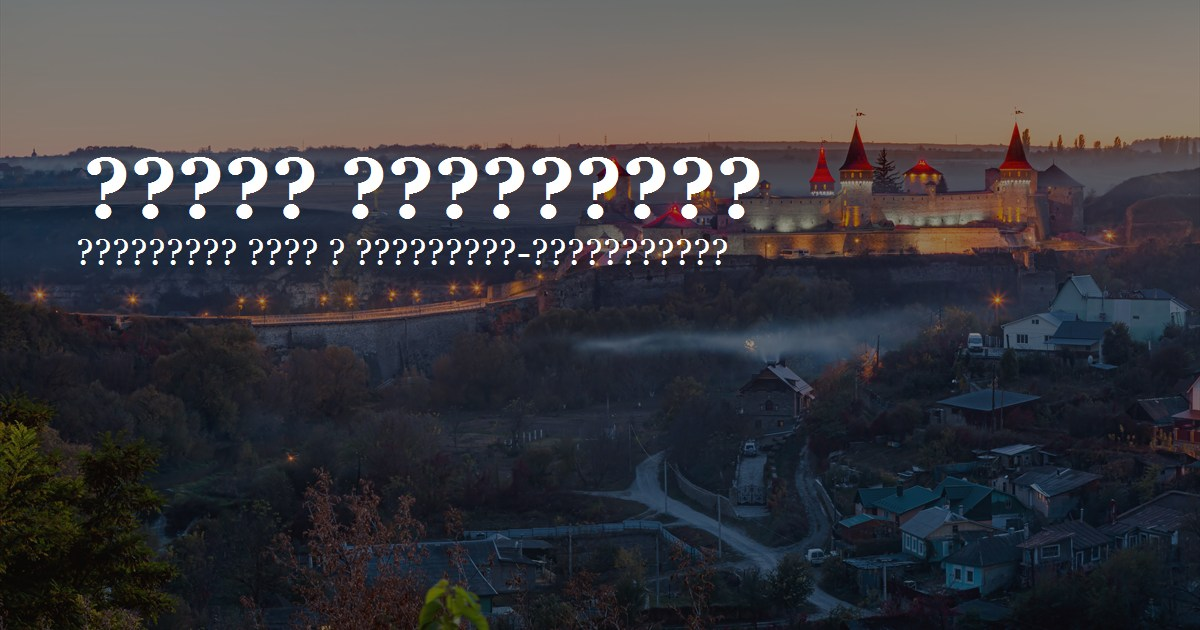
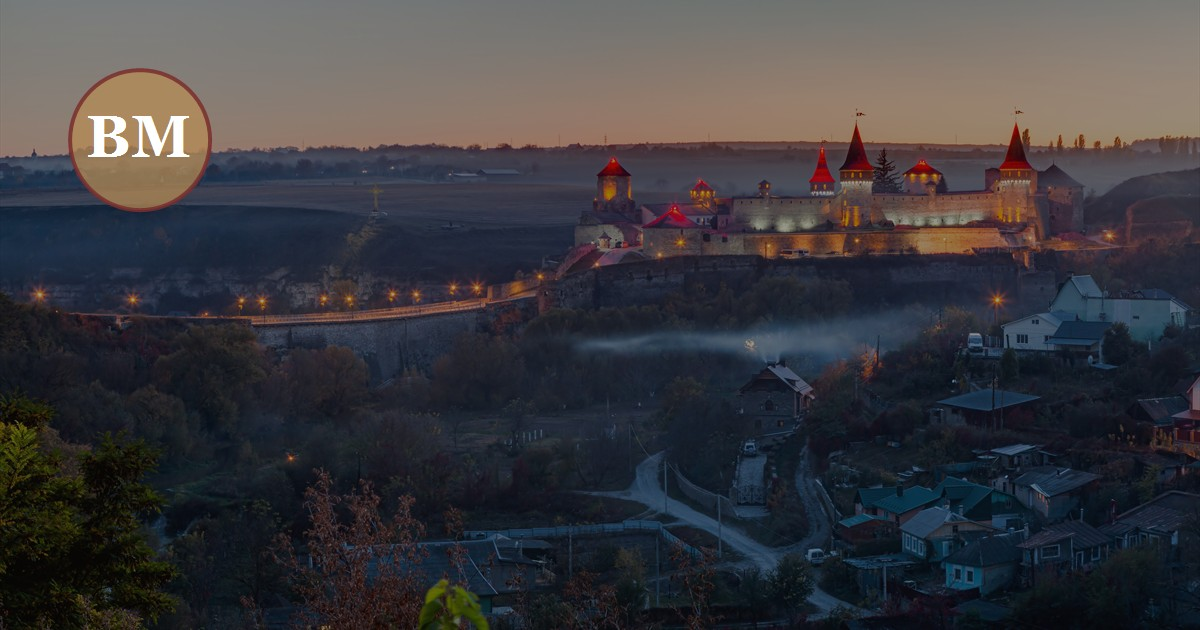
fix: update OG cover image to avoid garbled text

Changed region(s): [[0.0308, 0.0905, 0.6475, 0.4222]]

diff --git a/src/index.html b/src/index.html
@@ -19,11 +19,15 @@
 		/>
 		<meta
 			property="og:image"
-			content="https://baron-munchausen.itkamianets.com/assets/brand/og-cover.jpg?v=20260303"
+			content="https://baron-munchausen.itkamianets.com/assets/brand/og-cover.jpg?v=20260304"
 		/>
 		<meta
 			property="og:image:secure_url"
-			content="https://baron-munchausen.itkamianets.com/assets/brand/og-cover.jpg?v=20260303"
+			content="https://baron-munchausen.itkamianets.com/assets/brand/og-cover.jpg?v=20260304"
+		/>
+		<meta
+			property="og:image:alt"
+			content="Гостинний двір «Барон Мюнхаузен», Кам’янець-Подільський"
 		/>
 		<meta property="og:image:width" content="1200" />
 		<meta property="og:image:height" content="630" />
@@ -38,7 +42,7 @@
 		/>
 		<meta
 			name="twitter:image"
-			content="https://baron-munchausen.itkamianets.com/assets/brand/og-cover.jpg?v=20260303"
+			content="https://baron-munchausen.itkamianets.com/assets/brand/og-cover.jpg?v=20260304"
 		/>
 		<meta name="viewport" content="width=device-width, initial-scale=1" />
 		<base href="/" />
